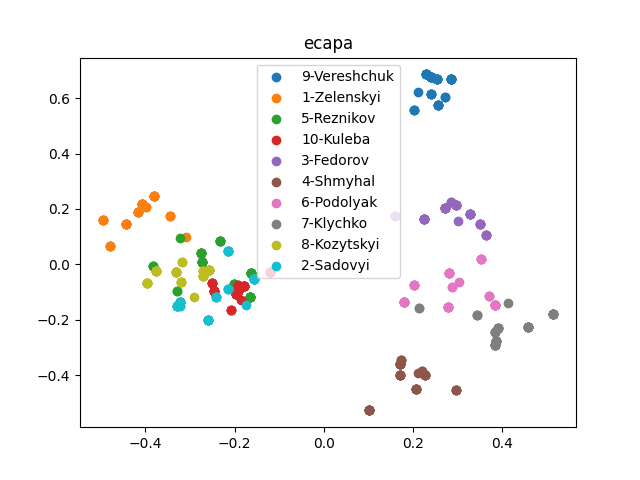
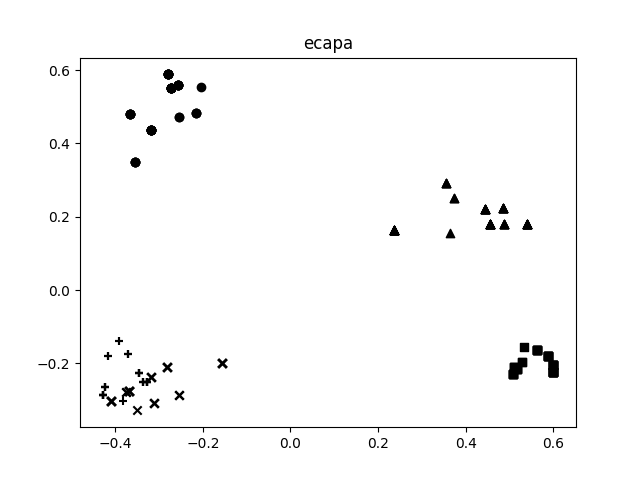
Update visualization. Add scores.csv. Update README.md

diff --git a/main.py b/main.py
@@ -83,6 +83,8 @@ def evaluate_pipeline(
 def make_visualization(
     pipelines,
     dataset,
+    speakers=None,
+    markers=None,
 ):
     classes = {}
     for file1, file2 in dataset:
@@ -94,10 +96,20 @@ def make_visualization(
                 classes[name].append(file1)
     
     # Limit number of classes
-    selected_classes_str = [f"{i}-" for i in range(1, 11)]
+    if speakers is None:
+        selected_classes_str = [f"{i}-" for i in range(1, 11)]
+    else:
+        selected_classes_str = speakers
     classes = {k: v for k, v in classes.items() if any([k.startswith(s) for s in selected_classes_str])}
+    speaker_to_marker_map = dict(zip(speakers, markers))
     
-    for pipeline in pipelines:
+    
+    fig, axs = plt.subplots(3, 2, sharex=True, sharey=True, figsize=(8, 12))
+    
+    for i, pipeline in enumerate(pipelines):
+        
+        ax_x, ax_y = i // 2, i % 2
+        ax = axs[ax_x, ax_y]
         
         class_embeddings = {}
         
@@ -111,10 +123,10 @@ def make_visualization(
             
         all_embeddings = [emb for embs in class_embeddings.values() for emb in embs]
 
-        plt.clf()
-        plt.cla()
-        
-        plt.title(pipeline.name)
+#         plt.clf()
+#         plt.cla()
+#         plt.title(pipeline.name)
+        ax.set_title(pipeline.name)
 
         pca = PCA(n_components=2).fit(all_embeddings)
         
@@ -122,12 +134,17 @@ def make_visualization(
             decomp_embs = pca.transform(embs)
             _x = decomp_embs[:, 0]
             _y = decomp_embs[:, 1]
-            plt.scatter(_x, _y, label=speaker)
+            _m = speaker_to_marker_map[speaker]
+            # plt.scatter(_x, _y, c='k', marker=_m, label=speaker)
+            ax.scatter(_x, _y, c='k', marker=_m, label=speaker)
+            
+        handles, labels = ax.get_legend_handles_labels()
+        # os.makedirs("plots", exist_ok=True)
+        # plt.savefig(f"plots/{pipeline.name}.png")
         
-        plt.legend()
-        
-        os.makedirs("plots", exist_ok=True)
-        plt.savefig(f"plots/{pipeline.name}.png")
+    os.makedirs("plots", exist_ok=True) 
+    plt.legend(handles, labels)
+    plt.savefig(f"plots/total.png")
 
 
 def main():
@@ -150,7 +167,7 @@ def main():
     pipelines = [
         Pipeline("pyannote", Pyannote()),
         # Pipeline("wavlm-base", WavLM(device="cuda")),
-        # Pipeline("wavlm-base-plus", WavLM("microsoft/wavlm-base-plus-sv", device="cuda")),
+        # Pipeline("wavlm-base-plus", WavLM("microsoft/wavlm-base-plus", device="cuda")),
         Pipeline("wavlm-base-sv", WavLM("microsoft/wavlm-base-sv", device="cuda")),
         Pipeline("wavlm-base-plus-sv", WavLM("microsoft/wavlm-base-plus-sv", device="cuda")),
         Pipeline("titanet", TitaNet()),
@@ -167,7 +184,21 @@ def main():
     pd.DataFrame(results).transpose().to_csv("scores.csv")
 
     # Make visualizations
-    make_visualization(pipelines, dataset)
+    speakers = [
+        '1-Zelenskyi',
+        '2-Sadovyi',
+        '9-Vereshchuk',
+        '10-Kuleba',
+        '25-Ustinova',
+    ]
+    markers = [
+        'o',
+        'x',
+        's',
+        '+',
+        '^',
+    ]
+    make_visualization(pipelines, dataset, speakers=speakers, markers=markers)
         
     print("Done!")
 

diff --git a/README.md b/README.md
@@ -1,8 +1,42 @@
 # speaker-verification-test
 
-Tested using Python 3.8.15
+Tested on Ubuntu 20.04, Python 3.8.15 with RTX A4500 GPU.
 
-## Setup
+## Experiment reproducibility
+
+The `dataset.pkl` file contains prepared dataset, which was used to
+get the scores for experiment results in the paper. In current version,
+this file should be in the root folder of the project, so it is read 
+by the `main.py` script instead of generating new voice pairs randomly.
+
+The `scores.csv` file contains experiment results when running the experiment
+with the provided `dataset.pkl` file.
+
+## Get dataset
+
+The recommended way to download the dataset using git.
+**Important!** Make sure that `git-lfs` installed!
+
+On Ubuntu:
+
+```
+sudo apt install git-lfs
+```
+
+Then run:
+
+```
+git lfs install
+git clone https://huggingface.co/datasets/vbrydik/ua-polit-tiny ./dataset
+```
+
+Alternatively, this dataset can be downloaded from the following sources: 
+    - [Huggingface](https://huggingface.co/datasets/vbrydik/ua-polit-tiny).
+    - [Google Drive](...)
+    
+*(TODO: Add dataset DOI.)*
+
+## Environment setup
 
 Set up virtual env:
 
@@ -29,5 +63,5 @@ The the experiments can be run using the following command:
 python main.py
 ```
 
-The output of the program will be a CSV file `all_scores.csv`,
+The output of the program will be a CSV file `scores.csv`,
 containing all experiments scores and information.
